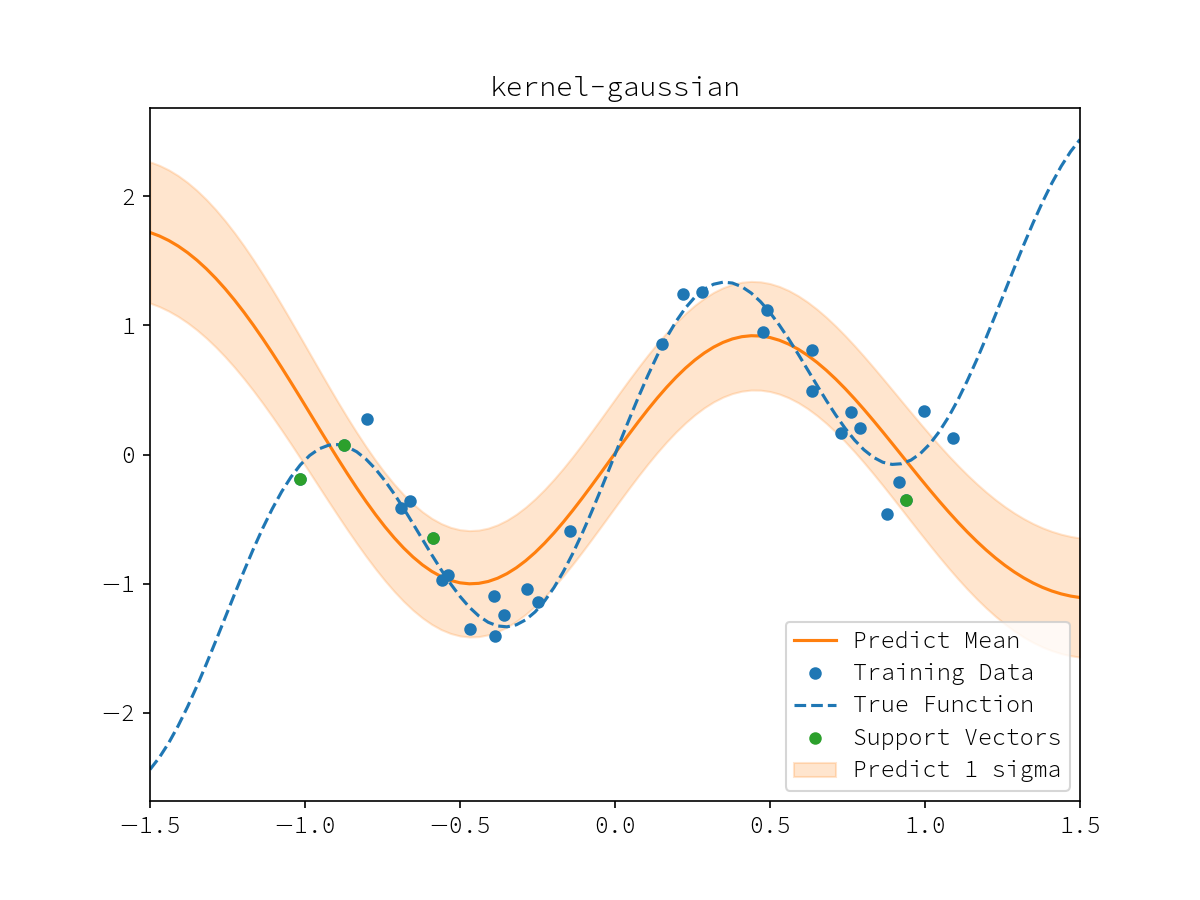
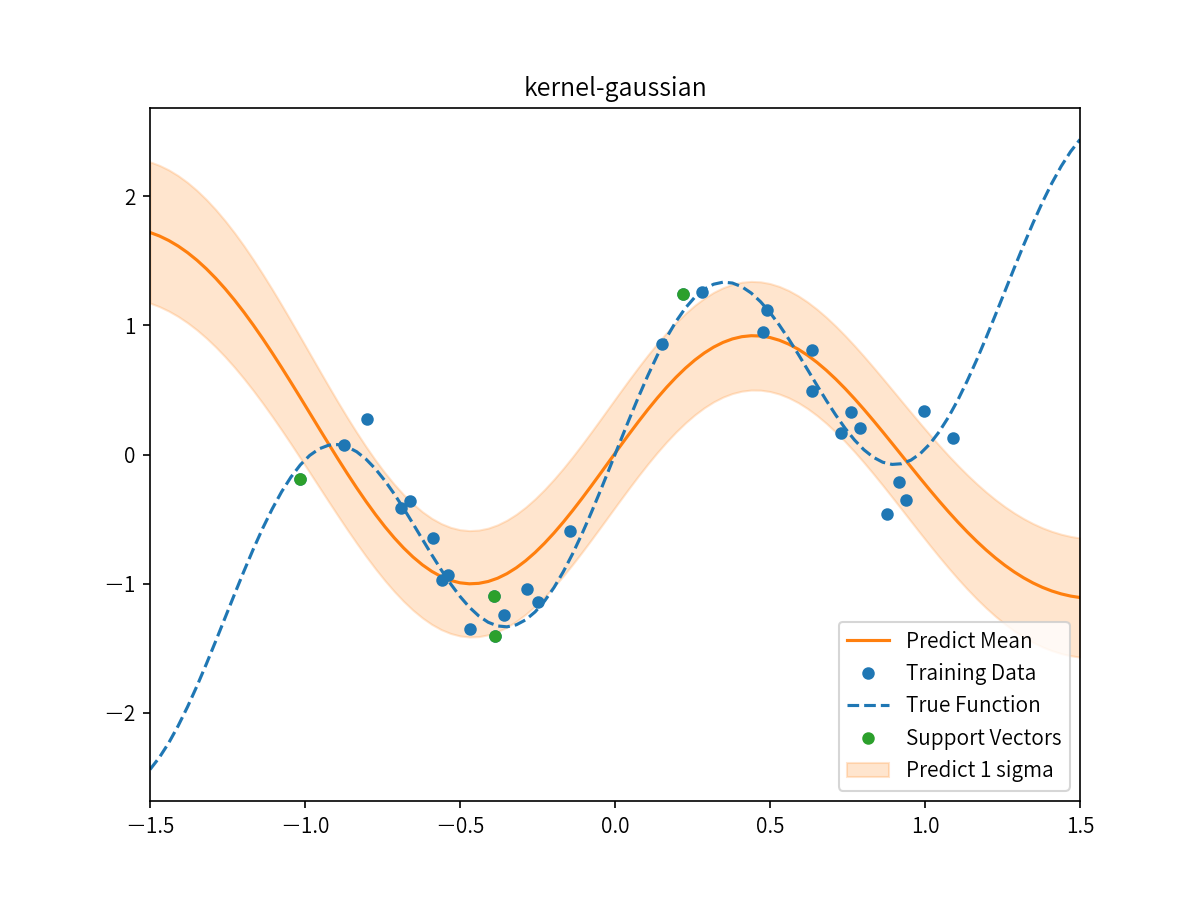
[Update] 画像の保存場所変更

diff --git a/prml/linear_regression.py b/prml/linear_regression.py
@@ -35,15 +35,9 @@ class LinearRegression(object):
         t = np.array(t)
         N = len(t)
         dim_w = len(Phi[0])
-        print
-        N, ": data dimention"
-        print
-        dim_w, ": w dimention"
         # 計画行列の固有値計算を先にしておきます
         self.eigenvalues = np.linalg.eig(Phi.T.dot(Phi))[0]
         self.eigenvalues[np.abs(self.eigenvalues) < .0001] = 0.  # 情報量が小さい次元の固有値はすべて0だと思うことにする。
-        print
-        u"Eig", self.eigenvalues
         # alphaとbetaを格納する為のリストを用意
         # note:最初はpythonのリストで計算してあとでnumpy.arrayにしたほうが早い！
         alphas = []
@@ -97,24 +91,21 @@ def compute_polynominal_matrix(X, dimentions):
 
 def compute_gaussian_phi(X, dim=10, s=1.):
     """
-    ガウス基底に基づく特徴量matrixを返します
-    固定基底なので、データ点によらず、-pi~+piまでを、dimの数で区切ってその点との距離をガウス基底で計算します。
-        ここがRBFと異なる点. 
-        RVM (Relevant Vector Machin) や、ガウス過程では、固定基底を通さずに内積のみを計算する. 
-    X: numpy.ndarray 元になるxの値
-    dim: ガウス基底の次元数
-    s: ガウス基底の分散パラメータ
+    ガウス固定基底に基づく特徴量matrixを返します.
+    固定規定の基準点は [-pi, pi] を dim の数で区切った点.
+    :param np.ndarray X:
+        変換する特徴量. shape = (n_samples, )
+
+    :param int dim: ガウス基底の次元数
+    :param float s: ガウス基底の分散パラメータ
         大きいと分布がゆるやかになります
         要するに、予測分布が遠いデータ点の情報も参照する用になります
     """
-    Phi = [np.ones_like(X)]
-    start = -np.pi
-    dist = 2. * np.pi
-    for i in range(dim):
-        print
-        X - start - dist / (dim - 1)
-        Phi.append(np.exp(-(X - start - dist / (dim - 1) * i) ** 2 / (2. * s * s)))
-    return np.array(Phi).T
+    bins = np.linspace(-np.pi, np.pi, num=dim).reshape(1, -1)
+    X = X.reshape(-1, 1)
+    dist = X - bins
+    phi = np.exp(- dist ** 2. / (2 * s ** 2.))
+    return np.hstack((phi, np.ones_like(X)))
 
 
 if __name__ == '__main__':
@@ -163,18 +154,18 @@ if __name__ == '__main__':
     fig1.savefig("../figures/linear_regression_max-evidence_vs_normal-map.png", dpi=150)
     plt.show()
 
-        # # 係数wの大きさの変化を表示する
-        # # ax3 = axes[0,1]
-        # # for i in range(len(model.w[0])):
-        # #     ax3.plot(range(len(model.w[:,i])),np.abs(model.w[:,i]),"o-",alpha=.3)
-        # sns.heatmap(model.w, ax=axes[0, 1])
-        # axes[0, 1].set_ylabel('Iteration')
-        # axes[0, 1].set_xlabel('dimention')
-        # # Gammaの推移をプロットします
-        # ax4 = axes[1, 1]
-        # ax4.plot(range(len(model.gam)), model.gam, "-o", label="Gamma")
-        # ax4.set_xlabel('Iteration')
-        # ax4.legend(loc=1)
-        # plt.tight_layout()
-        # # plt.savefig('python_study/prml/linear_regression/normalmap_and_evidence.png', dpi=120)
-        # plt.show()
+    # # 係数wの大きさの変化を表示する
+    # # ax3 = axes[0,1]
+    # # for i in range(len(model.w[0])):
+    # #     ax3.plot(range(len(model.w[:,i])),np.abs(model.w[:,i]),"o-",alpha=.3)
+    # sns.heatmap(model.w, ax=axes[0, 1])
+    # axes[0, 1].set_ylabel('Iteration')
+    # axes[0, 1].set_xlabel('dimention')
+    # # Gammaの推移をプロットします
+    # ax4 = axes[1, 1]
+    # ax4.plot(range(len(model.gam)), model.gam, "-o", label="Gamma")
+    # ax4.set_xlabel('Iteration')
+    # ax4.legend(loc=1)
+    # plt.tight_layout()
+    # # plt.savefig('python_study/prml/linear_regression/normalmap_and_evidence.png', dpi=120)
+    # plt.show()

diff --git a/prml/variance_inference.py b/prml/variance_inference.py
@@ -5,11 +5,7 @@ __author__ = "nyk510"
 """
 import numpy as np
 import matplotlib.pyplot as plt
-import seaborn as sns
 import pandas as pd
-
-sns.set(context="notebook", style="white")
-sns.set_palette(sns.color_palette(palette="Set1")[:])
 
 np.random.seed(71)
 
@@ -30,7 +26,7 @@ def plot_target_function(x, ax=None, color="default"):
     if ax is None:
         ax = plt.subplot(111)
     if color is "default":
-        color = sns.color_palette()[0]
+        color = "C0"
     ax.plot(x, t_func(x), "--", label="true function", color=color, alpha=.5)
     return ax
 
@@ -106,13 +102,13 @@ def fit(phi_func, x, update_beta=False):
     a0, b0 = 1, 1
     c0, d0 = 1, 1
 
-    pred_color = sns.color_palette()[1]
+    pred_color = "C1"
 
-    freq = 5
+    freq = 2
     n_iter = 3 * freq
     n_fig = int(n_iter / freq)
 
-    fig = plt.figure(figsize=(4 * n_fig, 6))
+    fig = plt.figure(figsize=(3 * n_fig, 4))
     data_iter = []
     data_iter.append([alpha, beta])
 
@@ -140,13 +136,13 @@ def fit(phi_func, x, update_beta=False):
 
             m_line = Phi_xx.dot(mn)
             sigma = (1. / beta + np.diag(Phi_xx.dot(Sn).dot(Phi_xx.T))) ** .5
-            ax_i.plot(xx, m_line, "-", label="predict-line",
-                      alpha=0.8, color=pred_color)
-            ax_i.fill_between(xx, m_line + sigma, m_line - sigma, label="+1sigma", alpha=.1, color=pred_color)
+            ax_i.plot(xx, m_line, "-", label="predict-line", color=pred_color)
+            ax_i.fill_between(xx, m_line + sigma, m_line - sigma, label="Predict 1 sigma", alpha=.2, color=pred_color)
             ax_i.set_title(
                 "n_iter:{i} alpha:{alpha:.3g} beta:{beta:.3g}".format(**locals()))
             ax_i.set_ylim(-2, 2)
             ax_i.set_xlim(-1.5, 1.5)
+        if i == 0:
             ax_i.legend(loc=4)
 
     fig.tight_layout()
@@ -154,12 +150,12 @@ def fit(phi_func, x, update_beta=False):
 
 
 if __name__ == "__main__":
-    n_samples = 50
+    n_samples = 20
     x = np.random.uniform(-1, 1, n_samples)
     noise = np.random.normal(scale=1., size=n_samples)
     t = t_func(x) + noise
 
-    plt.figure(figsize=(4, 6))
+    plt.figure(figsize=(4, 4))
     xx = np.linspace(-1, 1., 100)
     plot_target_function(xx)
     plt.plot(x, t, "o", label="data")

diff --git a/prml/rvm.py b/prml/rvm.py
@@ -102,7 +102,7 @@ class RVM(object):
         :param float min_max_ratio:  サポートベクトルの信頼度の割合
         """
 
-        alpha = self.alphas[-1][2::]
+        alpha = self.alphas[-1][1::]
         min_alpha = min(alpha)
         upper_limit = min_alpha / min_max_ratio
         support_X = self.X[alpha < upper_limit]
@@ -145,7 +145,7 @@ if __name__ == '__main__':
     ax1.legend()
     ax1.set_xlim(min(X1), max(X1))
     ax1.set_title(str(rvm))
-    fig.savefig("rvm_predict.png", dpi=150)
+    fig.savefig("../figures/rvm_predict.png", dpi=150)
 
     fig = plt.figure(figsize=(6, 6))
     ax1 = fig.add_subplot(111)

diff --git a/prml/gaussian_process_estimation.py b/prml/gaussian_process_estimation.py
@@ -105,6 +105,7 @@ if __name__ == '__main__':
     plt.plot(np.linspace(-1, 1, 100), true_function(np.linspace(-1, 1, 100) * np.pi), "--", label='True Function',
              color="C0")
     plt.legend(loc=2)
+    plt.title("training data")
 
     # training data の保存
     # plt.savefig('True_function_and_training_data.png', dpi=150)
@@ -137,5 +138,5 @@ if __name__ == '__main__':
             plt.legend()
 
     plt.tight_layout()
-    plt.savefig('gp_by_training_data.png', dpi=150)
+    plt.savefig('../figures/gp-estimation_by_training_data.png', dpi=150)
     plt.show()
